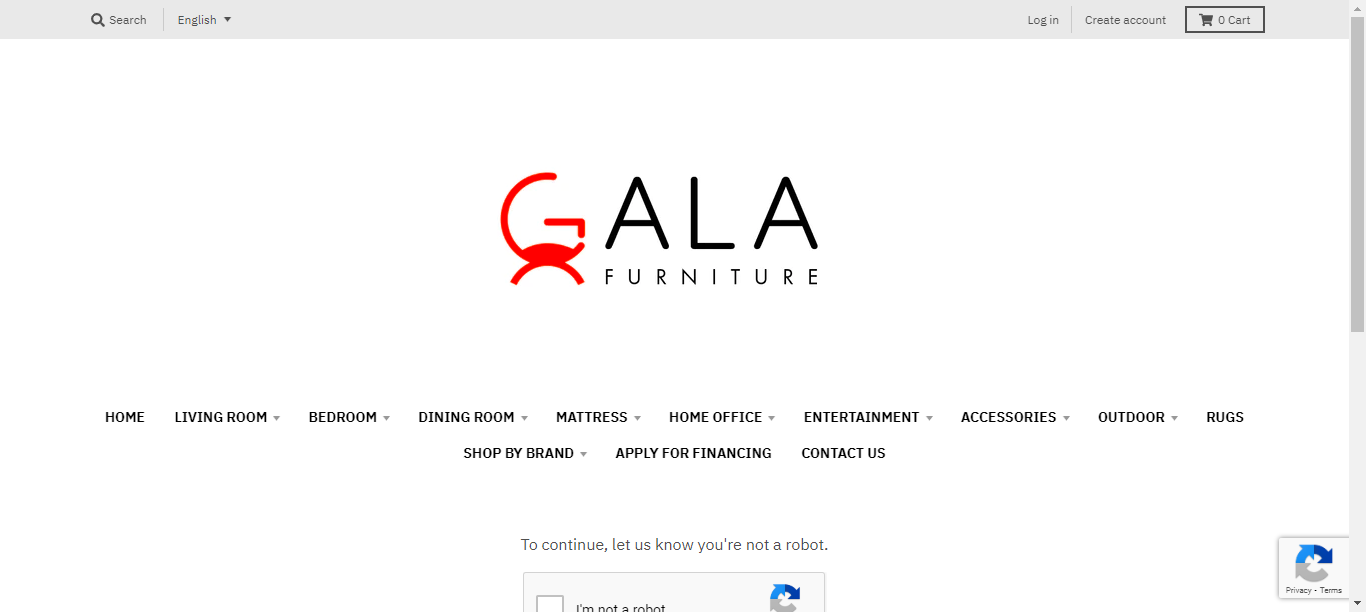
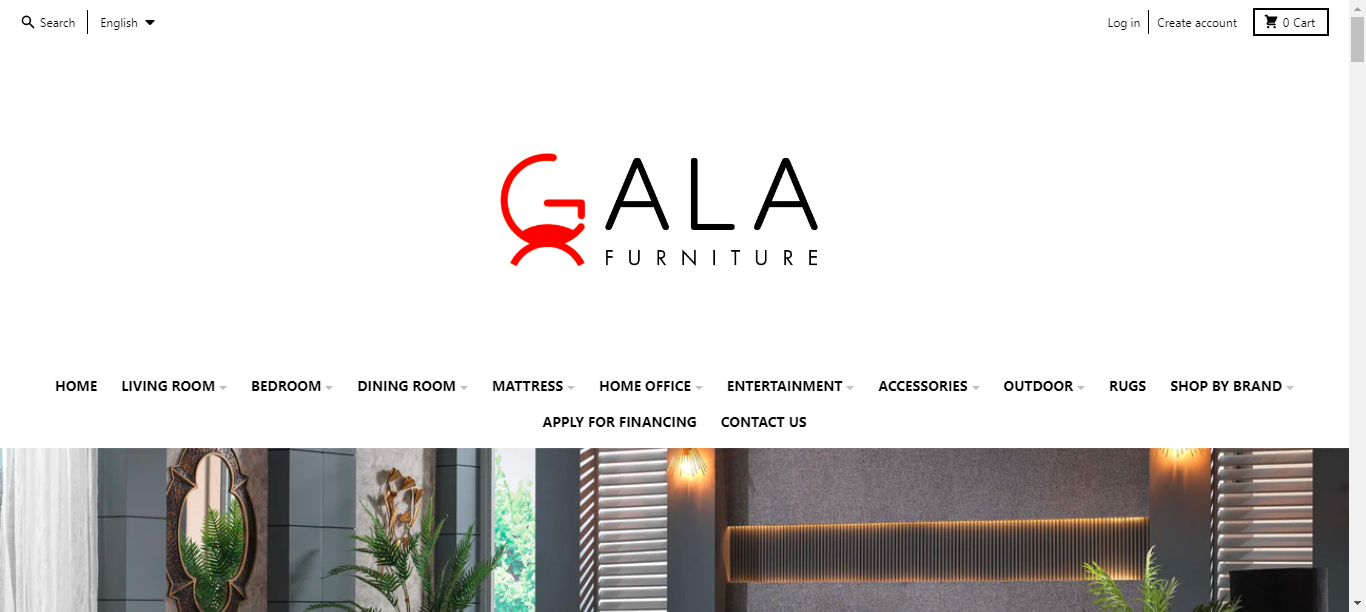
updating

diff --git a/results/log.html b/results/log.html
@@ -1803,25 +1803,25 @@ function stopPropagation(event) {
 window.output = {};
 </script>
 <script type="text/javascript">
-window.output["suite"] = [1,2,3,0,[],[0,0,16649],[[4,5,6,0,[],[0,51,16593],[[7,8,9,0,[],[0,61,16578],[],[[10,0,0,[],[0,1095,15541,11],[[1,12,13,0,14,15,0,0,[1,1098,8065],[[1100,2,16]]],[0,17,13,0,18,0,0,0,[1,9164,121],[]],[0,19,20,0,0,0,0,0,[1,9286,4082],[[0,21,13,0,22,23,0,0,[1,9288,1075],[[9292,2,24]]],[0,25,26,0,27,28,0,0,[1,10363,3003],[[13364,2,29]]]]],[0,30,31,0,0,0,0,0,[1,13372,3074],[[0,32,33,0,34,0,35,0,[1,13374,8],[[13378,2,36]]],[0,37,13,0,38,39,0,0,[1,13383,149],[[13389,2,40]]],[0,41,33,0,0,0,42,0,[1,13532,2],[[13533,2,43]]],[0,37,13,0,38,44,0,0,[1,13534,137],[[13536,2,45]]],[0,37,13,0,38,46,0,0,[1,13671,159],[[13673,2,47]]],[0,48,13,0,49,50,0,0,[1,13830,131],[[13831,2,51],[13892,2,52],[13960,2,53]]],[0,54,13,0,55,56,0,0,[1,13961,2484],[[13962,2,57]]]]],[0,58,20,0,0,0,0,0,[0,16447,187],[[0,59,13,0,60,61,0,0,[0,16449,183],[[16625,2,62],[16626,5,11]]],[0,25,26,0,27,28,0,0,[3,16633,0],[]]]]]]],[],[1,0,1,0]]],[],[],[1,0,1,0]]],[],[],[1,0,1,0]];
+window.output["suite"] = [1,2,3,0,[],[1,0,19581],[[4,5,6,0,[],[1,51,19524],[[7,8,9,10,[],[1,58,19512],[],[[11,0,0,[],[1,1118,18448],[[1,12,13,0,14,15,0,0,[1,1131,7485],[[1133,2,16]]],[0,17,13,0,18,0,0,0,[1,8617,323],[]],[0,19,20,0,0,0,0,0,[1,8941,4186],[[0,21,13,0,22,23,0,0,[1,8943,1179],[[8945,2,24]]],[0,25,26,0,27,28,0,0,[1,10122,3003],[[13124,2,29]]]]],[0,30,31,0,0,0,0,0,[1,13130,3263],[[0,32,33,0,34,0,35,0,[1,13133,7],[[13136,2,36]]],[0,37,13,0,38,39,0,0,[1,13140,152],[[13145,2,40]]],[0,41,33,0,0,0,42,0,[1,13293,2],[[13294,2,43]]],[0,37,13,0,38,44,0,0,[1,13295,163],[[13297,2,45]]],[0,46,33,0,0,0,47,0,[1,13458,2],[[13460,2,48]]],[0,37,13,0,38,49,0,0,[1,13461,240],[[13466,2,50]]],[0,51,33,0,52,0,53,0,[1,13703,1],[[13704,2,54]]],[0,55,13,0,56,57,0,0,[1,13704,134],[[13706,2,58],[13775,2,59],[13838,2,60]]],[0,61,13,0,62,63,0,0,[1,13839,2553],[[13840,2,64]]]]],[0,65,20,0,0,0,0,0,[1,16394,3171],[[0,66,13,0,67,68,0,0,[1,16395,167],[[16561,2,69]]],[0,25,26,0,27,28,0,0,[1,16562,3002],[[19564,2,29]]]]]]]],[],[1,1,0,0]]],[],[],[1,1,0,0]]],[],[],[1,1,0,0]];
 </script>
 <script type="text/javascript">
 window.output["strings"] = [];
 </script>
 <script type="text/javascript">
-window.output["strings"] = window.output["strings"].concat(["*","*RobotFrameWorkApp","*C:\\Asoftware\\RobotFrameWorkApp","*..","*Test","*C:\\Asoftware\\RobotFrameWorkApp\\Test","*../Test","*GalaFurniture","*C:\\Asoftware\\RobotFrameWorkApp\\Test\\GalaFurniture.robot","*../Test/GalaFurniture.robot","*Create a new account","*Element with locator '.wrapper #customer_logout_link' not found.","*Open Browser","*SeleniumLibrary","*<p>Opens a new browser instance to the optional <code>url\x3c/code>.\x3c/p>","*${URL}, ${BROWSER}","*Opening browser 'chrome' to base url '<a href=\"https://www.galafurn.com/\">https://www.galafurn.com/\x3c/a>'.","*Maximize Browser Window","*<p>Maximizes current browser window.\x3c/p>","*Click the create link","*HomePage","*Click Link","*<p>Clicks a link identified by <code>locator\x3c/code>.\x3c/p>","*${createAccountLink}","*Clicking link '(//a[@id='customer_register_link'])[1]'.","*Sleep","*BuiltIn","*<p>Pauses the test executed for the given time.\x3c/p>","*3s","*Slept 3 seconds","*Uyelik formunu doldur","*RegisteredPage","*Name","*FakerLibrary","*<p>:example 'John Doe'\x3c/p>","*${fake}","*${fake} = Adam Horton","*Input Text","*<p>Types the given <code>text\x3c/code> into the text field identified by <code>locator\x3c/code>.\x3c/p>","*${firstname}, ${fake}","*Typing text 'Adam Horton' into text field '//input[@id='FirstName']'.","*Last Name","*${fake2}","*${fake2} = Moore","*${lastname}, ${fake2}","*Typing text 'Moore' into text field '//input[@id='LastName']'.","*${email}, ${emailStr}","*Typing text 'farukyucel7@hotmail.com' into text field '//input[@id='Email']'.","*Input Password","*<p>Types the given password into the text field identified by <code>locator\x3c/code>.\x3c/p>","*${password}, ${passwordStr}","*Typing password into text field '//input[@id='CreatePassword']'.","*Temporally setting log level to: NONE","*Log level changed from NONE to INFO.","*Click Button","*<p>Clicks the button identified by <code>locator\x3c/code>.\x3c/p>","*${createButonu}","*Clicking button '//input[@value='Create']'.","*Confirm the sign up","*Element Should Be Visible","*<p>Verifies that the element identified by <code>locator\x3c/code> is visible.\x3c/p>","*${logoutBtn}","*\x3c/td>\x3c/tr><tr><td colspan=\"3\"><a href=\"selenium-screenshot-6.png\"><img src=\"selenium-screenshot-6.png\" width=\"800px\">\x3c/a>"]);
+window.output["strings"] = window.output["strings"].concat(["*","*RobotFrameWorkApp","*C:\\Asoftware\\RobotFrameWorkApp","*..","*Test","*C:\\Asoftware\\RobotFrameWorkApp\\Test","*../Test","*GalaFurniture","*C:\\Asoftware\\RobotFrameWorkApp\\Test\\GalaFurniture.robot","*../Test/GalaFurniture.robot","*<p>Gala furniture website test case\x3c/p>","*Create a new account","*Open Browser","*SeleniumLibrary","*<p>Opens a new browser instance to the optional <code>url\x3c/code>.\x3c/p>","*${URL}, ${BROWSER}","*Opening browser 'chrome' to base url '<a href=\"https://www.galafurn.com/\">https://www.galafurn.com/\x3c/a>'.","*Maximize Browser Window","*<p>Maximizes current browser window.\x3c/p>","*Click the create link","*HomePage","*Click Link","*<p>Clicks a link identified by <code>locator\x3c/code>.\x3c/p>","*${createAccountLink}","*Clicking link '(//a[@class='header-top__link'])[2]'.","*Sleep","*BuiltIn","*<p>Pauses the test executed for the given time.\x3c/p>","*3s","*Slept 3 seconds","*Uyelik formunu doldur","*RegisteredPage","*Name","*FakerLibrary","*<p>:example 'John Doe'\x3c/p>","*${fake}","*${fake} = William Lewis","*Input Text","*<p>Types the given <code>text\x3c/code> into the text field identified by <code>locator\x3c/code>.\x3c/p>","*${firstname}, ${fake}","*Typing text 'William Lewis' into text field '//input[@id='CreateCustomerForm-firstname']'.","*Last Name","*${fake2}","*${fake2} = Carter","*${lastname}, ${fake2}","*Typing text 'Carter' into text field '//input[@id='CreateCustomerForm-lastname']'.","*Email","*${fake3}","*${fake3} = krystal40@example.net","*${email}, ${fake3}","*Typing text 'krystal40@example.net' into text field '//input[@id='CreateCustomerForm-email']'.","*Password","*<p>Generate a random password of the specified <code>length\x3c/code>.\x3c/p>","*${fake4}","*${fake4} = Ht0Av9hj(o","*Input Password","*<p>Types the given password into the text field identified by <code>locator\x3c/code>.\x3c/p>","*${password}, ${passwordStr}","*Typing password into text field '//input[@id='CreateCustomerForm-password']'.","*Temporally setting log level to: NONE","*Log level changed from NONE to INFO.","*Click Button","*<p>Clicks the button identified by <code>locator\x3c/code>.\x3c/p>","*${createButonu}","*Clicking button '//button[@class='button button--cta button--solid']'.","*Logout should be visible","*Element Should Be Visible","*<p>Verifies that the element identified by <code>locator\x3c/code> is visible.\x3c/p>","*${logoutBtn}","*Element '(//a[@class='header-top__link'])[1]' is displayed."]);
 </script>
 <script type="text/javascript">
-window.output["stats"] = [[{"elapsed":"00:00:16","fail":1,"label":"All Tests","pass":0,"skip":0}],[],[{"elapsed":"00:00:17","fail":1,"id":"s1","label":"RobotFrameWorkApp","name":"RobotFrameWorkApp","pass":0,"skip":0},{"elapsed":"00:00:17","fail":1,"id":"s1-s1","label":"RobotFrameWorkApp.Test","name":"Test","pass":0,"skip":0},{"elapsed":"00:00:17","fail":1,"id":"s1-s1-s1","label":"RobotFrameWorkApp.Test.GalaFurniture","name":"GalaFurniture","pass":0,"skip":0}]];
+window.output["stats"] = [[{"elapsed":"00:00:18","fail":0,"label":"All Tests","pass":1,"skip":0}],[],[{"elapsed":"00:00:20","fail":0,"id":"s1","label":"RobotFrameWorkApp","name":"RobotFrameWorkApp","pass":1,"skip":0},{"elapsed":"00:00:20","fail":0,"id":"s1-s1","label":"RobotFrameWorkApp.Test","name":"Test","pass":1,"skip":0},{"elapsed":"00:00:20","fail":0,"id":"s1-s1-s1","label":"RobotFrameWorkApp.Test.GalaFurniture","name":"GalaFurniture","pass":1,"skip":0}]];
 </script>
 <script type="text/javascript">
 window.output["errors"] = [];
 </script>
 <script type="text/javascript">
-window.output["baseMillis"] = 1672089275358;
+window.output["baseMillis"] = 1672264295512;
 </script>
 <script type="text/javascript">
-window.output["generated"] = 16677;
+window.output["generated"] = 19649;
 </script>
 <script type="text/javascript">
 window.output["expand_keywords"] = null;

diff --git a/results/report.html b/results/report.html
@@ -1629,22 +1629,22 @@ storage = function () {
 window.output = {};
 </script>
 <script type="text/javascript">
-window.output["suite"] = [1,2,3,0,[],[0,0,16649],[[4,5,6,0,[],[0,51,16593],[[7,8,9,0,[],[0,61,16578],[],[[10,0,0,[],[0,1095,15541,11],[]]],[],[1,0,1,0]]],[],[],[1,0,1,0]]],[],[],[1,0,1,0]];
+window.output["suite"] = [1,2,3,0,[],[1,0,19581],[[4,5,6,0,[],[1,51,19524],[[7,8,9,10,[],[1,58,19512],[],[[11,0,0,[],[1,1118,18448],[]]],[],[1,1,0,0]]],[],[],[1,1,0,0]]],[],[],[1,1,0,0]];
 </script>
 <script type="text/javascript">
 window.output["strings"] = [];
 </script>
 <script type="text/javascript">
-window.output["strings"] = window.output["strings"].concat(["*","*RobotFrameWorkApp","*C:\\Asoftware\\RobotFrameWorkApp","*..","*Test","*C:\\Asoftware\\RobotFrameWorkApp\\Test","*../Test","*GalaFurniture","*C:\\Asoftware\\RobotFrameWorkApp\\Test\\GalaFurniture.robot","*../Test/GalaFurniture.robot","*Create a new account","*Element with locator '.wrapper #customer_logout_link' not found."]);
+window.output["strings"] = window.output["strings"].concat(["*","*RobotFrameWorkApp","*C:\\Asoftware\\RobotFrameWorkApp","*..","*Test","*C:\\Asoftware\\RobotFrameWorkApp\\Test","*../Test","*GalaFurniture","*C:\\Asoftware\\RobotFrameWorkApp\\Test\\GalaFurniture.robot","*../Test/GalaFurniture.robot","*<p>Gala furniture website test case\x3c/p>","*Create a new account"]);
 </script>
 <script type="text/javascript">
-window.output["stats"] = [[{"elapsed":"00:00:16","fail":1,"label":"All Tests","pass":0,"skip":0}],[],[{"elapsed":"00:00:17","fail":1,"id":"s1","label":"RobotFrameWorkApp","name":"RobotFrameWorkApp","pass":0,"skip":0},{"elapsed":"00:00:17","fail":1,"id":"s1-s1","label":"RobotFrameWorkApp.Test","name":"Test","pass":0,"skip":0},{"elapsed":"00:00:17","fail":1,"id":"s1-s1-s1","label":"RobotFrameWorkApp.Test.GalaFurniture","name":"GalaFurniture","pass":0,"skip":0}]];
+window.output["stats"] = [[{"elapsed":"00:00:18","fail":0,"label":"All Tests","pass":1,"skip":0}],[],[{"elapsed":"00:00:20","fail":0,"id":"s1","label":"RobotFrameWorkApp","name":"RobotFrameWorkApp","pass":1,"skip":0},{"elapsed":"00:00:20","fail":0,"id":"s1-s1","label":"RobotFrameWorkApp.Test","name":"Test","pass":1,"skip":0},{"elapsed":"00:00:20","fail":0,"id":"s1-s1-s1","label":"RobotFrameWorkApp.Test.GalaFurniture","name":"GalaFurniture","pass":1,"skip":0}]];
 </script>
 <script type="text/javascript">
-window.output["baseMillis"] = 1672089275358;
+window.output["baseMillis"] = 1672264295512;
 </script>
 <script type="text/javascript">
-window.output["generated"] = 16677;
+window.output["generated"] = 19649;
 </script>
 <script type="text/javascript">
 window.output["expand_keywords"] = null;

diff --git a/Resourse/Locators/Locator.py b/Resourse/Locators/Locator.py
@@ -1,9 +1,14 @@
 # Homepage locators
-createAccountLink = "(//a[@id='customer_register_link'])[1]"
-logoutBtn = ".wrapper #customer_logout_link"
+createAccountLink = "(//a[@class='header-top__link'])[2]"
+logoutBtn = "(//a[@class='header-top__link'])[1]"
+loginBtn = "//*[text()='Log in']"
 # Registeredpage locator
-firstname = "//input[@id='FirstName']"
-lastname = "//input[@id='LastName']"
-email = "//input[@id='Email']"
-password = "//input[@id='CreatePassword']"
-createButonu = "//input[@value='Create']"
+firstname = "//input[@id='CreateCustomerForm-firstname']"
+lastname = "//input[@id='CreateCustomerForm-lastname']"
+email = "//input[@id='CreateCustomerForm-email']"
+password = "//input[@id='CreateCustomerForm-password']"
+createButonu = "//button[@class='button button--cta button--solid']"
+# loginPage locators
+emailInput = "id=CustomerForm-email"
+passwordInput = "id=CustomerForm-password"
+signUpBtn = "(//button[@class='button button--cta button--solid'])[2]"

diff --git a/Resourse/TestData/TestData.py b/Resourse/TestData/TestData.py
@@ -1,4 +1,4 @@
 URL = "https://www.galafurn.com/"
 BROWSER = "chrome"
-emailStr = "farukyucel7@hotmail.com"
+emailStr = "farukyucel11@hotmail.com"
 passwordStr = "12345"
